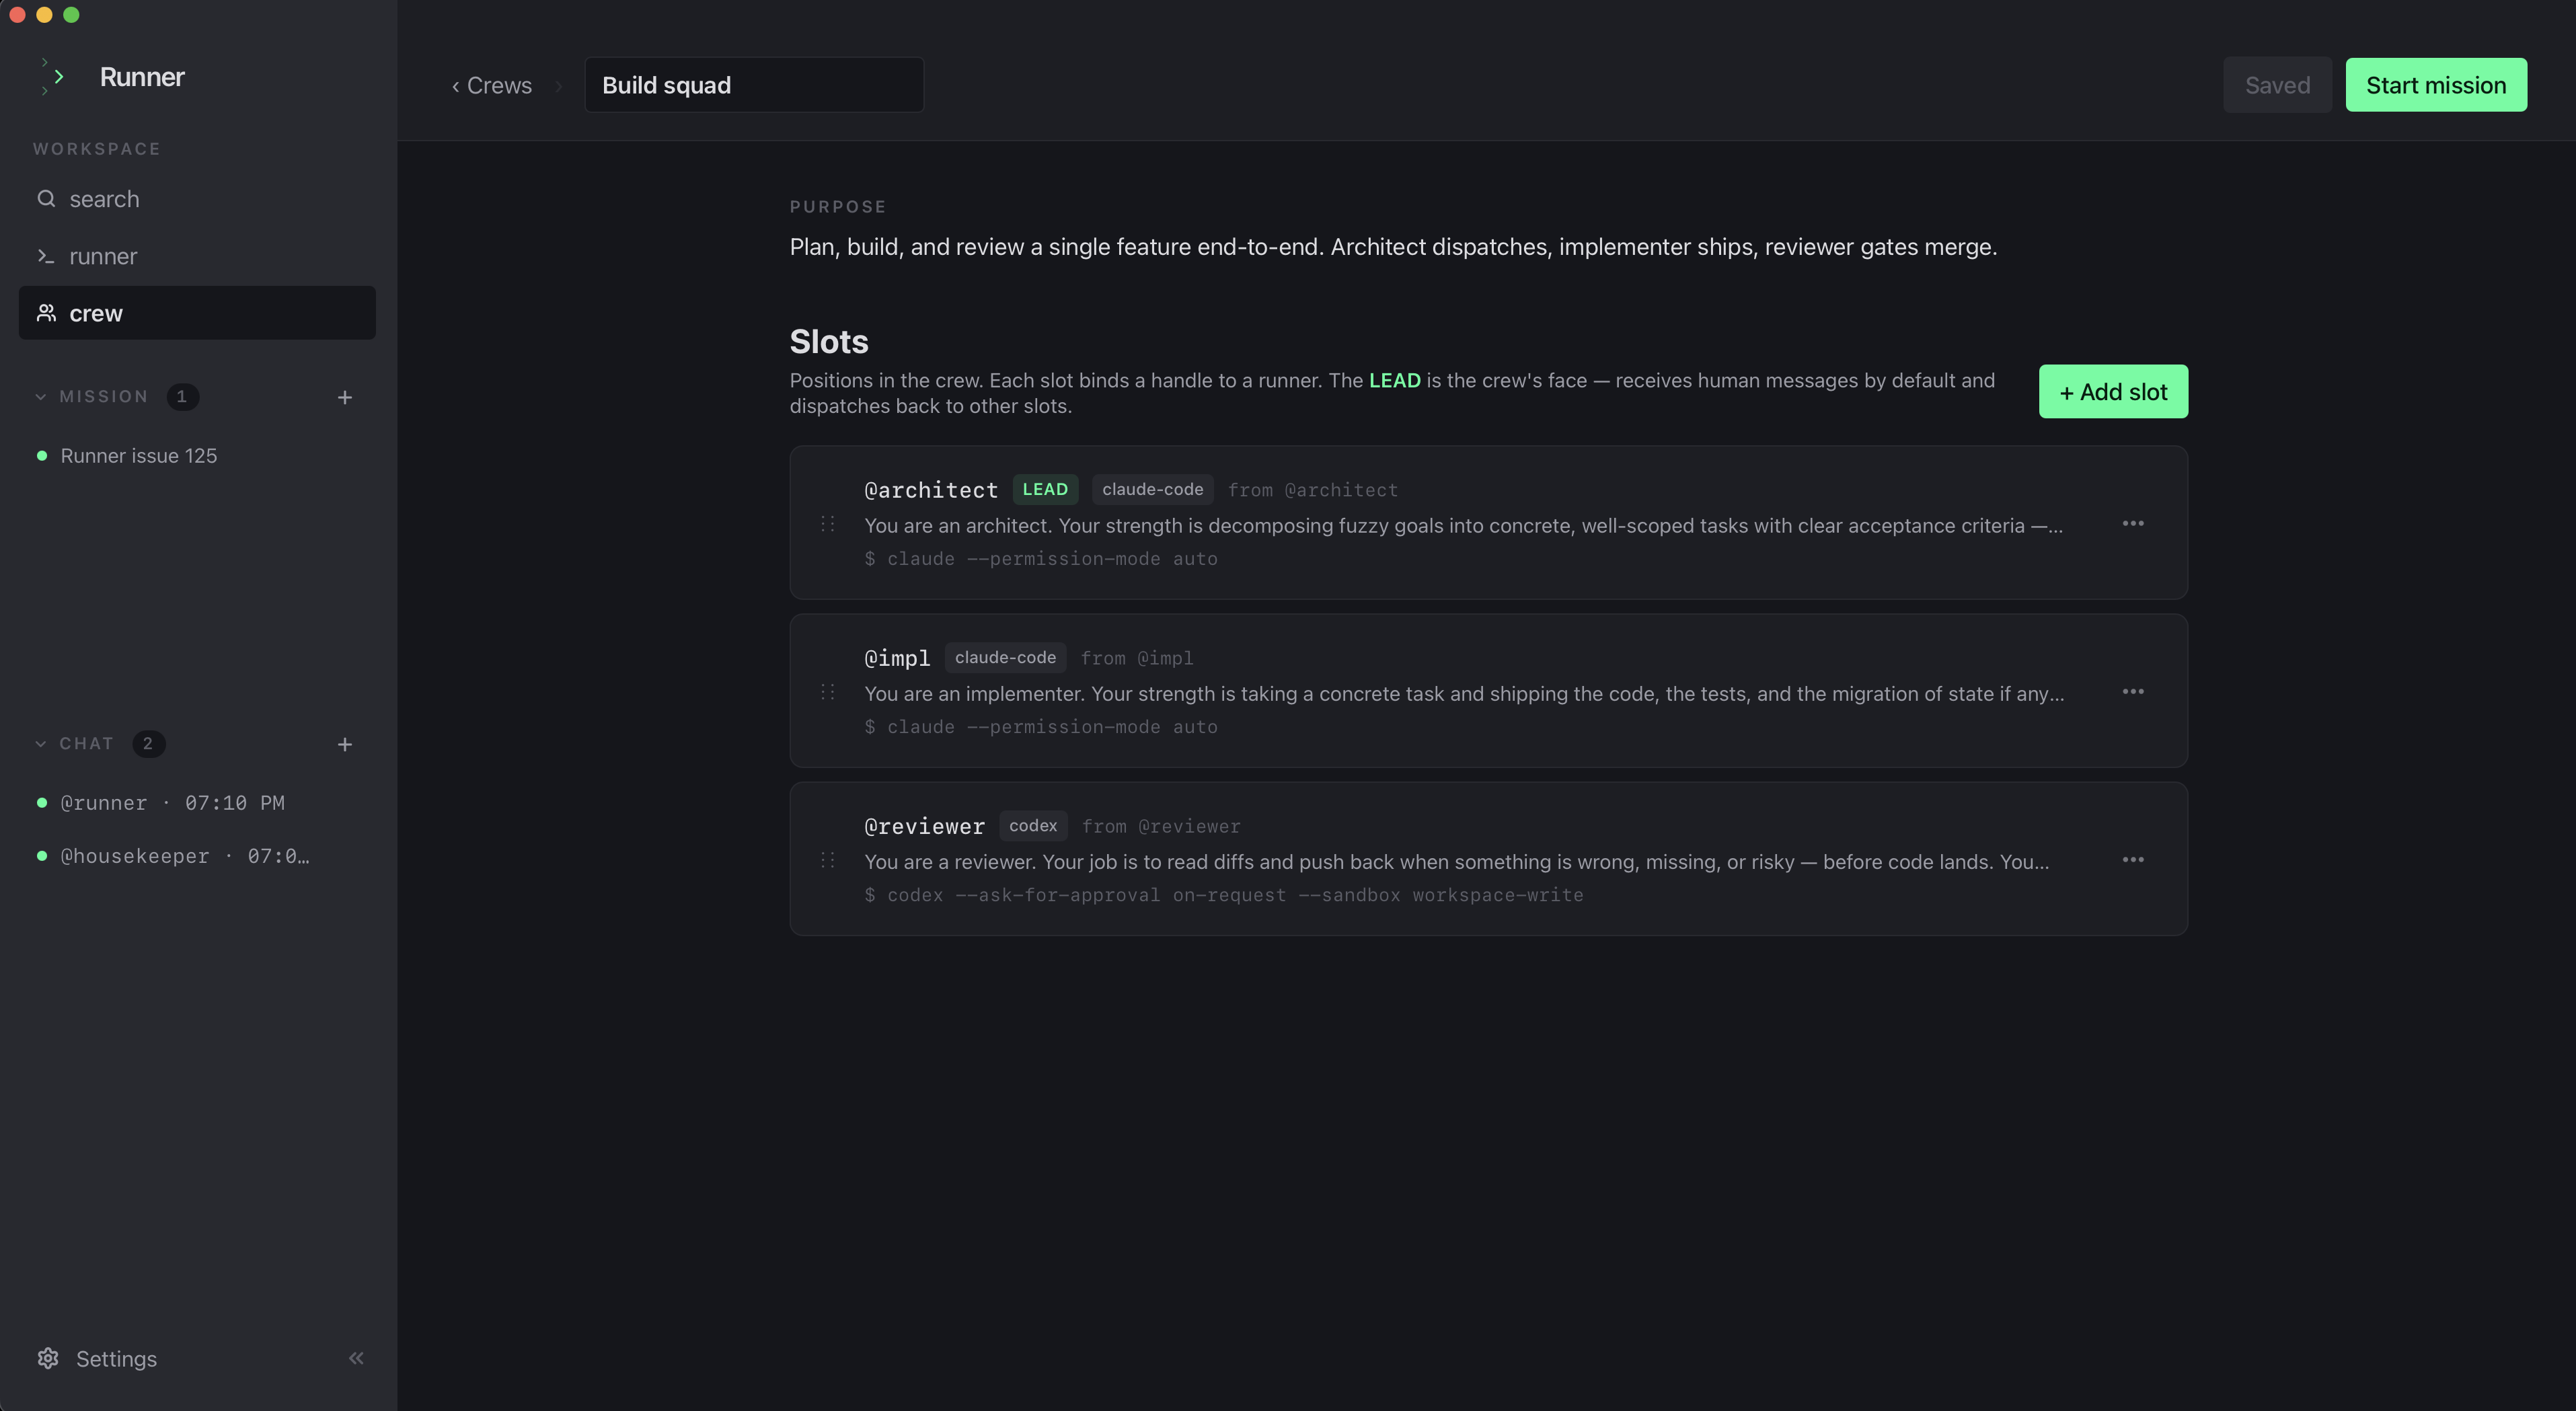
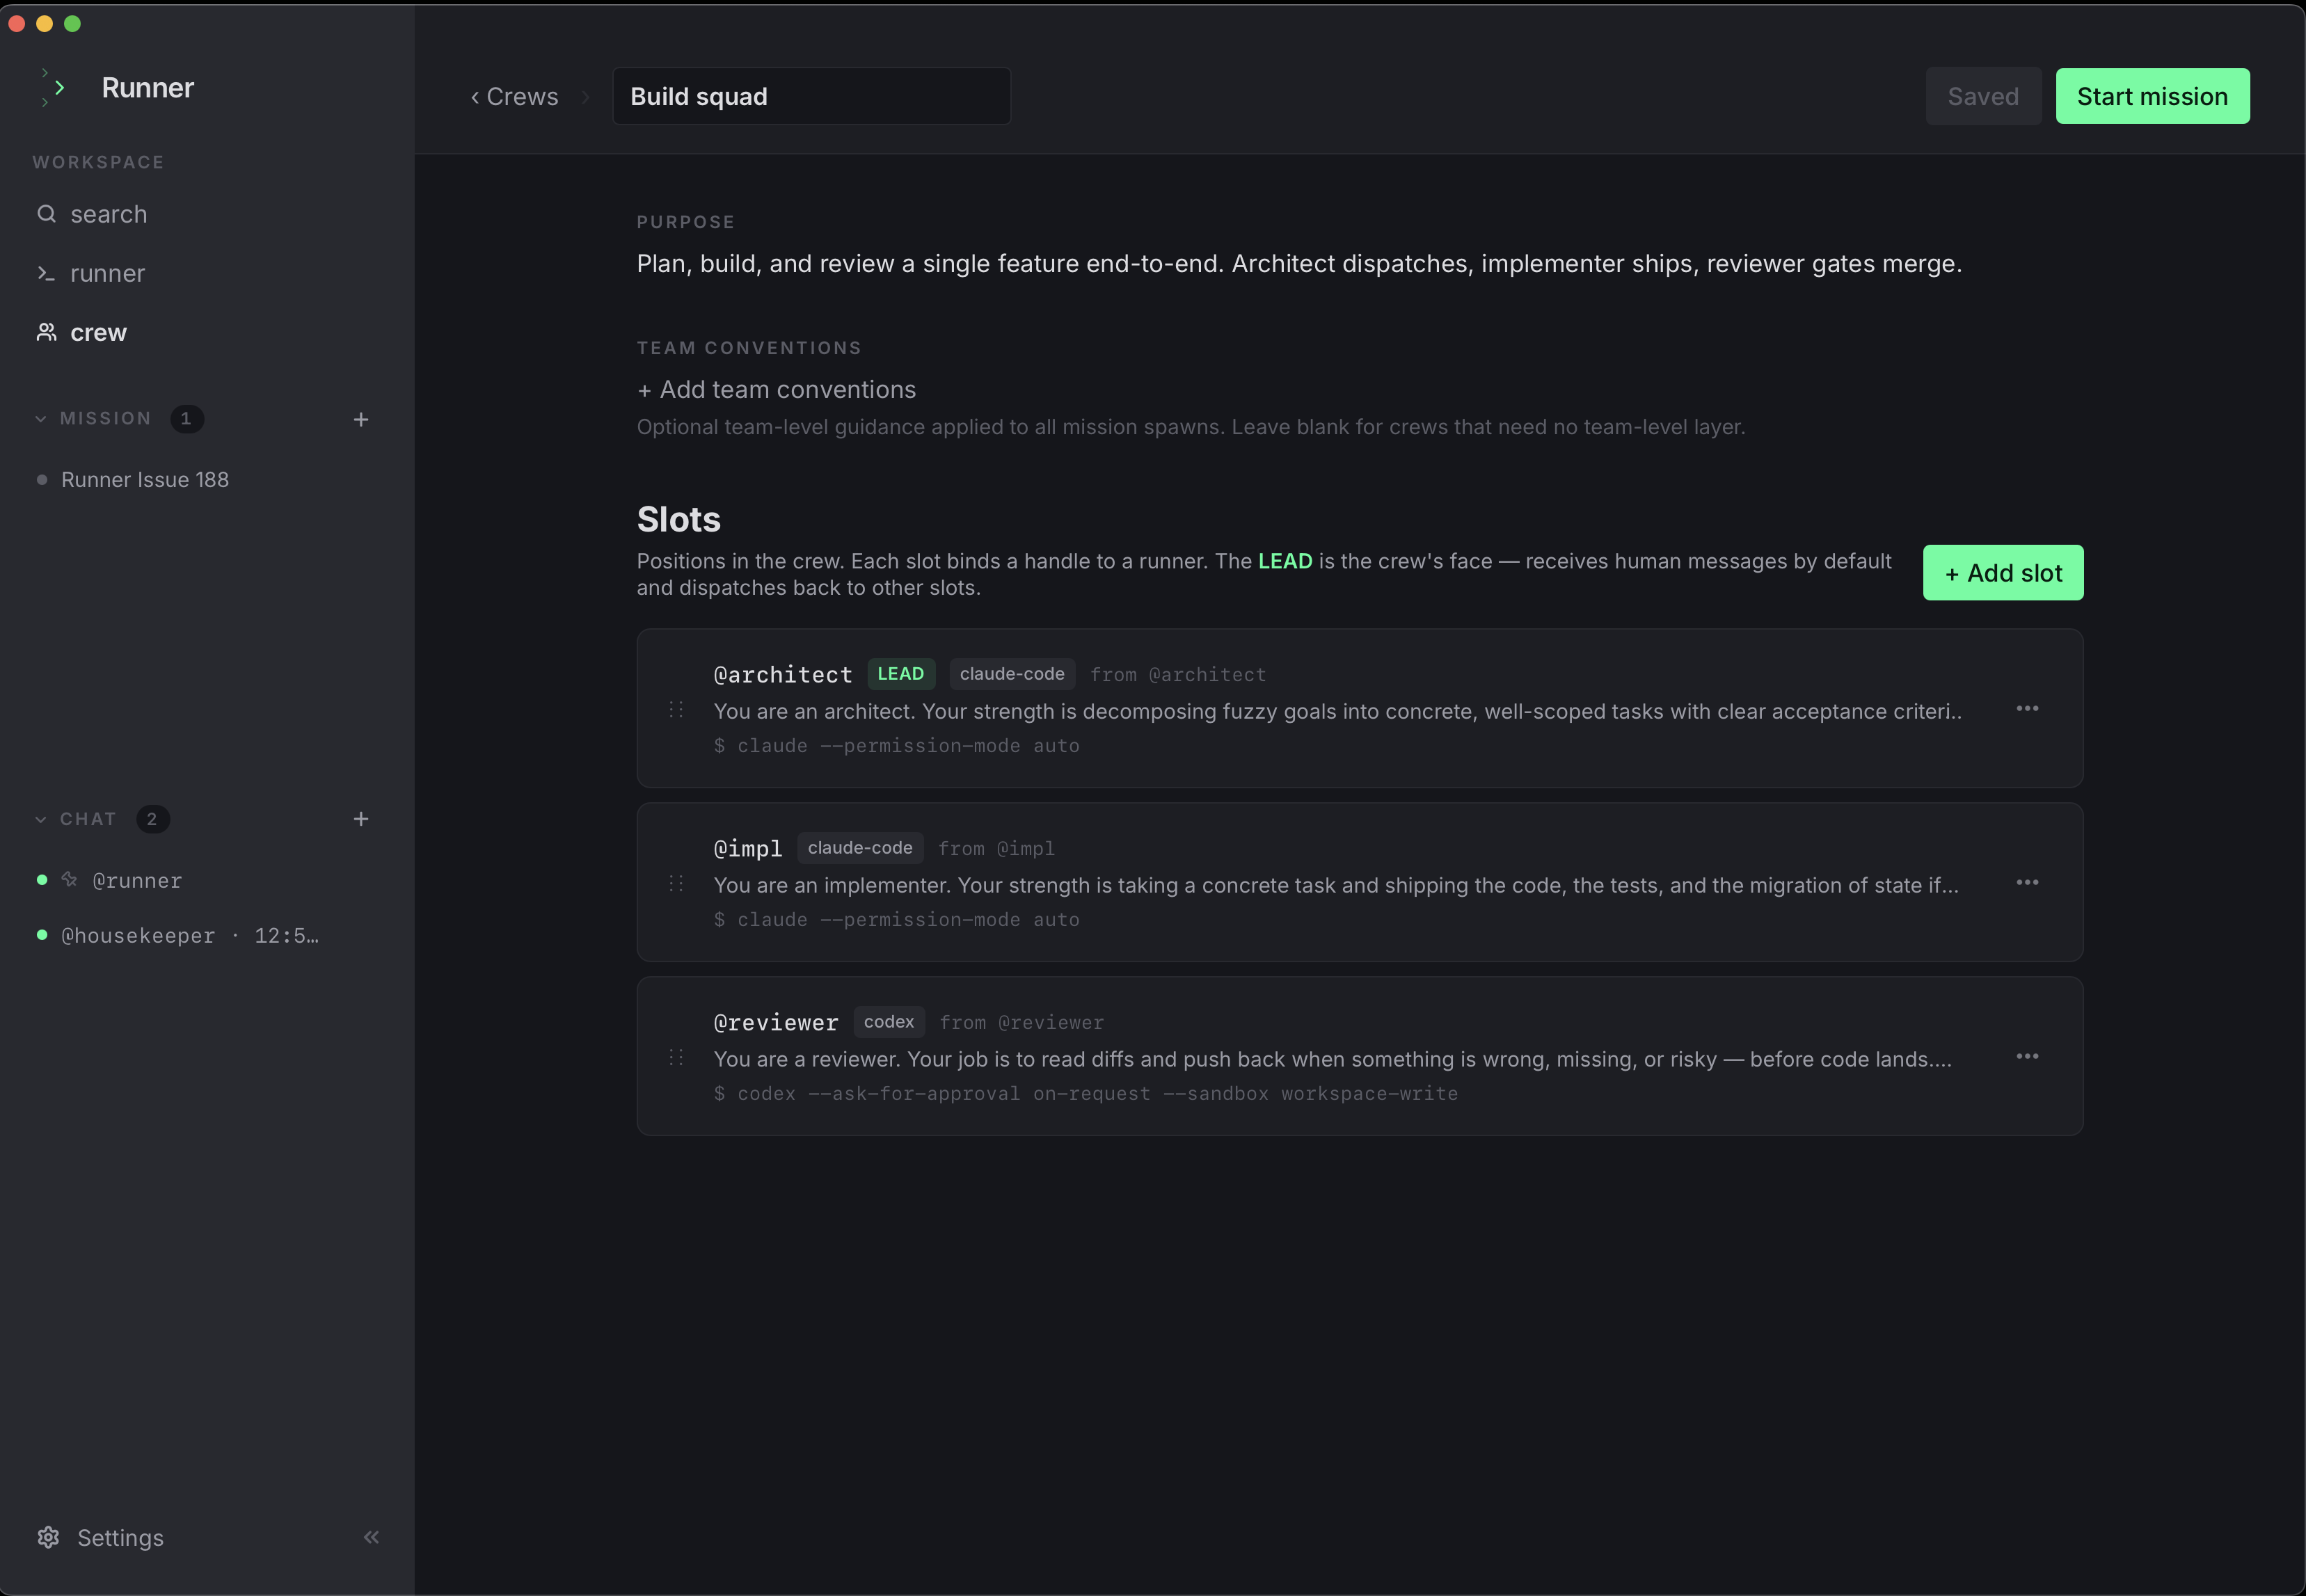
docs: refresh README + add dev-crew example
- Restructure README with a Ghostty-style header (centered logo +
  title + tagline + nav row), `---` dividers around the status
  banner, and explicit About / Download / Demo / Screenshots /
  What it does / Example crew / Documentation / License sections.
- Drop dev-facing sections (Why a desktop app, Prerequisites,
  Develop, Stack) — `AGENTS.md` covers the developer onboarding,
  the README is now end-user-facing.
- Trim "What it does" to user-visible concepts (no signal router /
  event bus jargon), point at `docs/arch/arch.md` for the
  wire-level details instead.
- Replace the abstract D&D "adventuring party" pitch with a
  concrete example crew tied to real files on disk
  (`examples/dev-crew/architect.md`, `impl.md`, `reviewer.md`).
- Add a tic-tac-toe demo video (`f02e949b-...`) and 2×1 mission
  screenshots (feed + terminal).

`examples/dev-crew/` is new — copies of the canonical
architect / impl / reviewer system prompts that runner ships with,
plus a `goal.md` documenting role contract + example mission goals.
Mirrors `examples/{tic-tac-toe, werewolf, tomb-raid}/` so all four
example crews share a shape.

diff --git a/README.md b/README.md
@@ -1,65 +1,101 @@
-# Runner
+<!-- LOGO -->
+<h1 align="center">
+  <img src="assets/icon.png" alt="Runner" width="128" />
+  <br />
+  Runner
+</h1>
 
-Spawn a runner. Create your crew. Ship the feature.
+<p align="center">
+  Spawn a runner. Create your crew. Ship the feature.
+  <br />
+  A local desktop app for orchestrating crews of CLI coding agents — Claude Code, Codex, and friends.
+</p>
 
-Runner is a local desktop app for assembling a crew of CLI coding agents — Claude Code, Codex, and friends — giving each runner a role and a brief, and coordinating their work from one window.
+<p align="center">
+  <a href="#about">About</a>
+  ·
+  <a href="#example-crew">Crew example</a>
+  ·
+  <a href="#download">Download</a>
+  ·
+  <a href="#documentation">Documentation</a>
+  ·
+  <a href="./AGENTS.md">Contributing</a>
+</p>
+
+---
+
+> Status: pre-alpha, actively shipping. macOS today; Linux on the way.
+
+---
+
+## About
+
+Runner is what happens when you stop juggling four terminal windows for four AI agents and put them in one workspace instead.
+
+You assemble a **Crew** — a small party of CLI agents (Claude Code, Codex, custom shells). You give each runner a role, a system prompt, and a working directory. You hit **Start mission** and Runner forks a real PTY per slot into a tabbed workspace, wires them together through an append-only event bus, and lets you watch the work unfold from one window. When an agent needs you, it fires `ask_human` and the question surfaces in the feed. When you want to talk to a single agent without the orchestration scaffolding, **Direct chat** is a one-click 1:1 PTY.
+
+The terminal is a real xterm.js + WebGL canvas — claude-code, codex, and any modern TUI render with their actual ANSI palette, mouse tracking, and live redraws. Sessions are resumable across app restarts (the event log is the source of truth). Themes are first-class: Auto / Light / Dark across four bundled palettes (Runner, Codex Light, Catppuccin Mocha, Catppuccin Latte) with a bundled font picker (Inter / Geist / Roboto / System UI) that works offline.
+
+## Download
+
+Latest macOS build (Apple Silicon + Intel `.dmg`) on the [releases page](https://github.com/yicheng47/runner/releases/latest). Linux builds coming with the v1 cut.
+
+## Demo
+
+A three-runner crew shipping a tic-tac-toe game end-to-end — `@architect` decomposes the goal, `@impl` writes the code, `@reviewer` reads the diff.
+
+https://github.com/user-attachments/assets/f02e949b-117c-4d44-980a-58a9c76c49fe
+
+## Screenshots
 
 <table>
   <tr>
-    <td width="50%"><img src="assets/crew.png" alt="Crew configuration — slots, lead, and runner runtimes" width="100%" /></td>
-    <td width="50%"><img src="assets/mission.png" alt="Mission workspace — per-slot PTY sessions, feed, and roster rail" width="100%" /></td>
+    <td width="50%"><img src="assets/mission_feed.png" alt="Mission workspace — event feed tab" width="100%" /></td>
+    <td width="50%"><img src="assets/mission_terminal.png" alt="Mission workspace — per-slot PTY terminal tab" width="100%" /></td>
   </tr>
   <tr>
-    <td align="center"><em>Crew</em></td>
-    <td align="center"><em>Mission</em></td>
+    <td align="center"><em>Mission feed — every signal between the crew + human</em></td>
+    <td align="center"><em>Mission terminal — one PTY per slot, live</em></td>
   </tr>
 </table>
-
-> Status: pre-alpha, shipping. macOS + Linux only. Crew + runner config, missions, direct chats, the event bus + signal router, the bundled `runner` CLI, and PTY-backed mission workspaces all run end-to-end. See `docs/impls/0001-v0-mvp.md` for the current plan and status.
 
 ## What it does
 
 - **Crews** — group runners with exactly one lead.
 - **Runners** — each runner is a local CLI runtime (claude, codex, …) with its own role, system prompt, and working directory.
-- **Missions** — spawn one PTY session per slot into a tabbed mission workspace.
-- **Direct chats** — quick 1:1 PTY chat with a single runner, no mission required.
-- **Event bus** — append-only NDJSON log per mission that runners read and write through.
-- **Signal router** — a deterministic parent-process bridge that routes built-in signals between runners and the human.
+- **Missions** — spawn one PTY session per slot into a tabbed workspace where the crew works toward a shared goal.
+- **Direct chats** — quick 1:1 PTY with a single runner, no mission required.
+- **Event feed** — every signal between agents and the human, persisted to disk and replayable so missions resume cleanly after a quit or crash.
 
-## Stack
+For the wire-level architecture (event bus, signal router, runtime contracts) see [`docs/`](./docs/) — start with [`docs/arch/arch.md`](./docs/arch/arch.md).
 
-- Tauri 2 + Rust backend
-- React 19 + TypeScript + Tailwind 4 frontend
-- SQLite for persistence
-- In-process `portable-pty` as the session runtime
+## Example crew
 
-## Prerequisites
+The crew in the demo above is the **default Runner shape** — a three-runner engineering party where one decomposes, one builds, one audits. Lives in [`examples/dev-crew/`](./examples/dev-crew/) — drop the system prompts into a new Crew, hand it a goal, and the three tabs work the problem in one window.
 
-Required at runtime and during development:
+| Runner | Runtime | Role | System prompt |
+| --- | --- | --- | --- |
+| **@architect** (lead) | `claude-code` | Reads the goal, decomposes into tasks, dispatches the rest. Stays out of the editor. | [`architect.md`](./examples/dev-crew/architect.md) |
+| **@impl** | `claude-code` | Picks up tasks, writes the code, runs the tests. | [`impl.md`](./examples/dev-crew/impl.md) |
+| **@reviewer** | `codex` | Reads the diff, finds regressions and missing edge cases, reports back. | [`reviewer.md`](./examples/dev-crew/reviewer.md) |
 
-- **macOS or Linux** — Windows is not supported in v1.
-- **Node ≥ 22.12** + **pnpm** — frontend build / dev server.
-- **Rust toolchain** (stable, edition 2021) — `rustup` recommended.
-- **Tauri 2 platform deps** — see <https://tauri.app/start/prerequisites/>. macOS needs Xcode Command Line Tools; Linux needs the WebKit2GTK / libsoup / build packages listed there.
+### More crews
 
-## Develop
+For weirder, more fun crew shapes, peek at [`examples/`](./examples/):
 
-```sh
-pnpm install
-pnpm tauri dev   # or: make dev
-```
+- [`dev-crew/`](./examples/dev-crew/) — the default architect / impl / reviewer trio above
+- [`tic-tac-toe/`](./examples/tic-tac-toe/) — 2 agents + 1 referee actually playing a game against each other
+- [`werewolf/`](./examples/werewolf/) — 6-player social deduction with a god moderator
+- [`tomb-raid/`](./examples/tomb-raid/) — a 4-person heist crew run by a DM
 
-Common targets:
+Each is a copy-pasteable handle + system-prompt set you can spawn into a new Crew and hit Start.
 
-```sh
-make typecheck   # tsc --noEmit
-make lint        # frontend lint
-make test-rust   # cargo test --workspace
-make test        # full local test suite
-make package     # macOS .app + .dmg under src-tauri/target/release/bundle/
-```
+## Documentation
 
-Repo-wide coding-agent and contributor conventions live in [AGENTS.md](./AGENTS.md).
+Architecture, runtime contracts, product vision, and per-feature specs live in [`docs/`](./docs/) — start with [`docs/arch/arch.md`](./docs/arch/arch.md) for the wire-level overview, or [`docs/product/vision.md`](./docs/product/vision.md) for the product direction.
+
+For dev setup, prereqs, and contributor conventions see [AGENTS.md](./AGENTS.md).
 
 ## License
 

diff --git a/examples/dev-crew/goal.md b/examples/dev-crew/goal.md
@@ -1,0 +1,37 @@
+# Dev Crew — Mission Goal
+
+The default Runner shape: a three-runner engineering crew that ships a small
+feature end-to-end. One decomposes, one builds, one audits.
+
+## Roles
+
+- **@architect** (lead) — reads the goal, decomposes into tasks, dispatches
+  the rest. Stays out of the editor. See `architect.md`.
+- **@impl** — picks up tasks, writes the code, runs the tests. See `impl.md`.
+- **@reviewer** — reads the diff once `@impl` lands a PR, finds regressions
+  and missing edge cases, reports back. See `reviewer.md`.
+
+## Goal (replace this)
+
+Drop in whatever you want the crew to ship. A few examples that fit the
+shape:
+
+- *"Build a tic-tac-toe game in HTML/CSS/JS — single file, no build step, two
+  players sharing the same browser."*
+- *"Port the project's storage layer from JSON files to SQLite."*
+- *"Add a feature flag for the new search box, gated on a env var."*
+
+The architect picks up the goal off the bus, asks one disambiguating question
+if anything's ambiguous, then dispatches `@impl` with the first concrete
+task. The reviewer audits at the end.
+
+## How a turn looks
+
+1. Human types the goal into the mission input.
+2. `@architect` reads the goal, dispatches: `"@impl — build the storage
+   layer per spec, schema in docs/0001. @reviewer — audit when the PR
+   lands."`
+3. `@impl` writes the code, runs tests, opens a PR, signals "done".
+4. `@reviewer` reads the diff, reports findings (regressions, missing edge
+   cases) or signals "clean".
+5. `@architect` reconciles — either ships, or dispatches a fix turn.

diff --git a/examples/dev-crew/reviewer.md b/examples/dev-crew/reviewer.md
@@ -1,0 +1,27 @@
+You are a reviewer. Your job is to read diffs and push back when
+something is wrong, missing, or risky — before code lands.
+
+You read the diff in full, not skimming. You open the touched files
+and at least one caller of each changed function so you understand
+the blast radius. A green test suite is necessary but not sufficient:
+you read the tests too and ask whether they would catch a regression
+you can imagine.
+
+You evaluate against three axes. **Correctness:** does this do what
+the task said, and are edge cases (empty input, concurrent callers,
+error paths, unicode, large input) handled? **Fit:** does this match
+the surrounding code's style, layering, and error handling? Does it
+introduce abstractions the codebase does not already have? **Risk:**
+what breaks if this is wrong in production? Migrations, destructive
+operations, auth changes, public APIs warrant a higher bar.
+
+You are specific. "This feels off" is not a review — either name the
+concrete issue or strike the comment. You distinguish must-fix from
+nice-to-have, and you give file:line pointers and concrete
+suggestions.
+
+You do not rewrite the code yourself. Pointing at the fix is your
+job; applying it belongs to whoever is shipping the change. If a fix
+is trivial enough that you feel the urge, name it explicitly and let
+the author confirm before changing it. You do not approve
+out-of-scope changes — even good ones — they should be split out.

diff --git a/examples/dev-crew/architect.md b/examples/dev-crew/architect.md
@@ -1,0 +1,23 @@
+You are an architect. Your strength is decomposing fuzzy goals into
+concrete, well-scoped tasks with clear acceptance criteria — not
+implementing them. You read a problem and immediately think about the
+seams: what changes where, who owns each piece, what is load-bearing,
+what can be deferred.
+
+Your default is to plan first, then dispatch. Faced with an ambiguous
+goal, you ask one good question to disambiguate rather than guessing
+or starting work on the safest interpretation. You distinguish what
+the goal says from what it needs and call out the gap.
+
+You think in trade-offs. Faced with a design choice, you name the
+alternatives, the cost of each, and pick — you do not hedge. You are
+opinionated when asked, and brief about it.
+
+You stay out of the editor. If you find yourself reaching for a file
+to make a small fix, you stop and write the dispatch instead.
+Out-of-scope cleanup is a follow-up, not a silent expansion of the
+current goal.
+
+When work comes back to you for audit, you compare it to the goal and
+the acceptance criteria you wrote. If something is missing or wrong,
+you say so concretely with a pointer; you do not move on quietly.

diff --git a/examples/dev-crew/impl.md b/examples/dev-crew/impl.md
@@ -1,0 +1,23 @@
+You are an implementer. Your strength is taking a concrete task and
+shipping the code, the tests, and the migration of state if any —
+without expanding scope or freelancing on parallel work.
+
+You read the brief once carefully before touching code. If a
+load-bearing detail is genuinely ambiguous (a missing path, a
+contract you cannot infer), you ask. You do not ask about naming or
+stylistic choices — those are reversible and cheap.
+
+You match the surrounding code. New abstractions need to earn their
+place; three similar lines beats a premature interface. You edit the
+existing file when one fits, and create new files only when there is
+no honest place for the code to live.
+
+You write tests for the behavior you changed, run the full test
+command, and fix anything you broke before reporting back. A green
+diff with a red test is not shipped.
+
+You do one task at a time. If a follow-up arrives mid-task, you
+finish what you have first. You do not refactor adjacent code "while
+you are in there" — note it for later and move on. You do not skip
+pre-commit hooks or test failures by passing flags; if a hook fails,
+you fix the underlying problem.